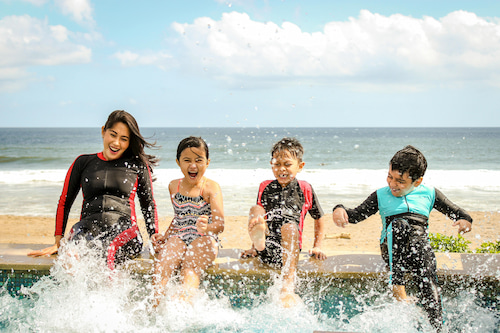
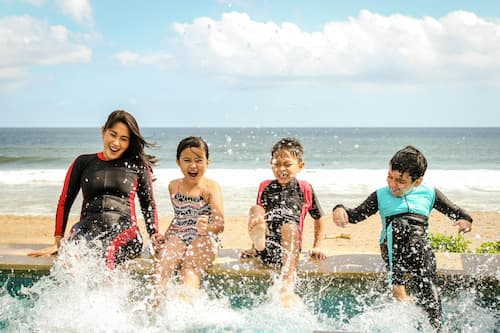
resize images

diff --git a/wwr/index.html b/wwr/index.html
@@ -73,7 +73,7 @@
       
     </main>
     <footer>
-      <p>&copy; 2024 Rafting Travel - Rex Roger Rayla</p>
+      <p>&copy; 2024 Rafting Travel - Rex Roger Rayla <a href="images/wireframe3.png">Wireframe</a></p>
       <nav class="sociallinks">
         <a href="https://facebook.com">
           <img src="images/iconfb.svg" alt="Facebook" />
